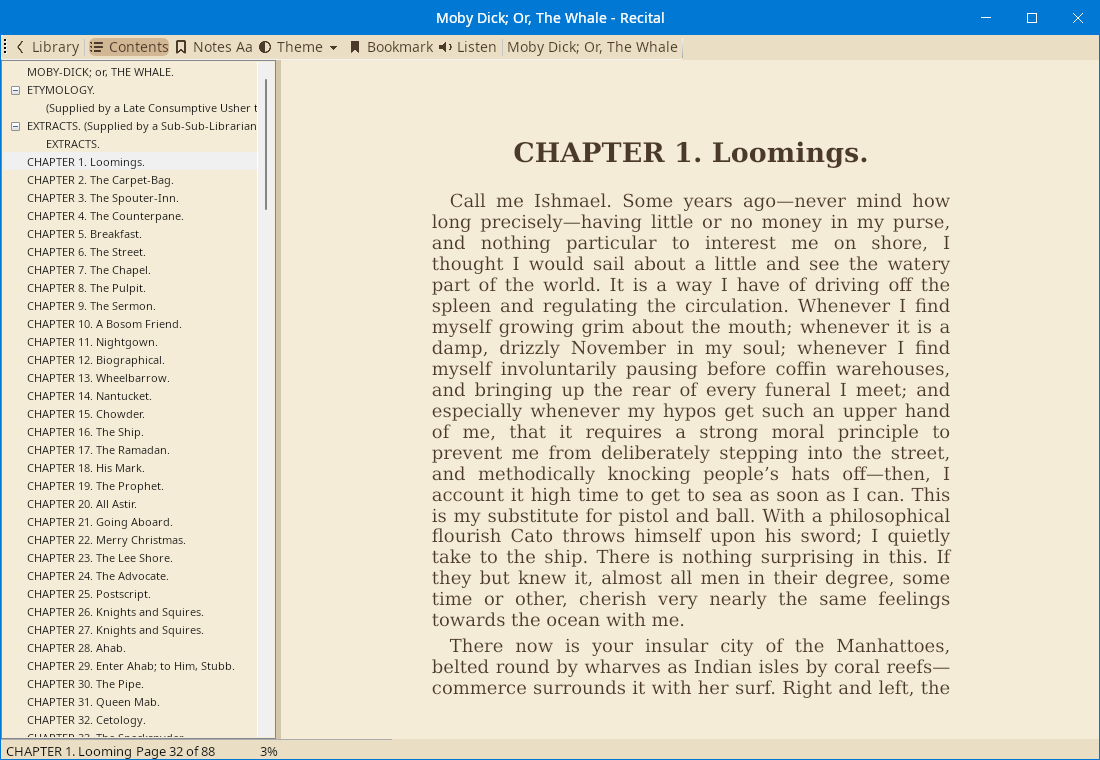
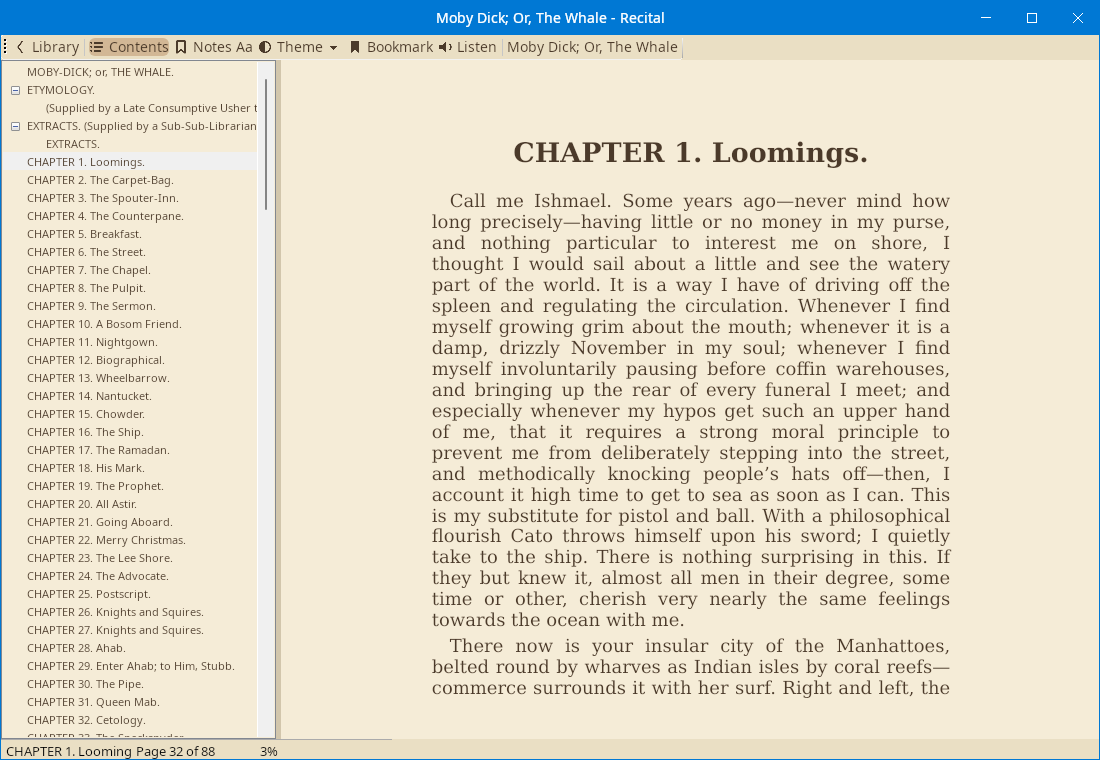
GAP-018: TreeView/ListView item text now uses the theme's own colour
Found running the Linux desktop head by hand: in the Black theme, the Contents panel
showed only its selected chapter, every other row blank. Majorsilence.Forms'
TreeViewRenderer and ListViewRenderer fall back to a fixed, process-wide default text
colour for an unselected node/item with none of its own — never to the control's own
ForeColor, unlike the equivalent background fill. That default is a dark colour meant
for a light background: low but legible contrast against ReaderTheme.Dark's page colour,
zero against ReaderTheme.Black's true black.

ThemePainter now sets every existing node's (recursively) and item's/sub-item's
ForeColor explicitly whenever the theme changes, and ReaderView.FillContents,
AnnotationsPanel.Show and LibraryView.ShowBooks set it from the owning control's own
ForeColor as each node/item is created, so newly added content is right immediately
rather than waiting for the next theme change to revisit it.

Linux UI test baselines and the sepia screenshot redrawn (crisper text colour, no
longer the framework default).

diff --git a/src/Majorsilence.Recital.UI/ThemePainter.cs b/src/Majorsilence.Recital.UI/ThemePainter.cs
@@ -1,3 +1,4 @@
+using System.Drawing;
 using Majorsilence.Forms;
 using Majorsilence.Recital.Core.Reading;
 
@@ -66,11 +67,31 @@ namespace Majorsilence.Recital.UI
                     case TextBoxBase or ComboBox or NumericUpDown or ListView or TreeView or ListBox:
                         control.BackColor = inputBack;
                         control.ForeColor = inputText;
+                        // FRAMEWORK-GAP: GAP-018: an unselected TreeView node or ListView item/sub-item
+                        // with no ForeColor of its own draws in a fixed framework default, not the
+                        // control's ambient ForeColor just set above — invisible against a page colour
+                        // dark enough to collide with that default (Black theme). Set explicitly instead.
+                        if (control is TreeView tree)
+                            SetNodeForeColor (tree.Nodes, inputText);
+                        else if (control is ListView list)
+                            foreach (ListViewItem item in list.Items) {
+                                item.ForeColor = inputText;
+                                foreach (ListViewItem.ListViewSubItem sub in item.SubItems)
+                                    sub.ForeColor = inputText;
+                            }
                         break;
                 }
 
                 foreach (Control child in control.Controls)
                     Walk (child);
+            }
+
+            static void SetNodeForeColor (IEnumerable<TreeNode> nodes, Color color)
+            {
+                foreach (var node in nodes) {
+                    node.ForeColor = color;
+                    SetNodeForeColor (node.Nodes, color);
+                }
             }
         }
     }

diff --git a/src/Majorsilence.Recital.UI/LibraryView.cs b/src/Majorsilence.Recital.UI/LibraryView.cs
@@ -351,10 +351,12 @@ namespace Majorsilence.Recital.UI
             list.BeginUpdate ();
             list.Items.Clear ();
             foreach (var book in shown) {
-                var item = new ListViewItem (book.Title) { Tag = book };
+                var item = new ListViewItem (book.Title) { Tag = book, ForeColor = list.ForeColor };
                 item.SubItems.Add (book.Authors);
                 item.SubItems.Add (book.Progress is null ? "" : book.Percent.ToString ("P0", CultureInfo.CurrentCulture));
                 item.SubItems.Add (book.Meta.AddedAt.ToLocalTime ().ToString ("d", CultureInfo.CurrentCulture));
+                foreach (ListViewItem.ListViewSubItem sub in item.SubItems)
+                    sub.ForeColor = list.ForeColor;
                 list.Items.Add (item);
                 if (book.Id == selected)
                     item.Selected = true;

diff --git a/src/Majorsilence.Recital.UI/ReaderView.cs b/src/Majorsilence.Recital.UI/ReaderView.cs
@@ -935,14 +935,14 @@ namespace Majorsilence.Recital.UI
                     .ToList ();
             }
             foreach (var entry in entries)
-                contents.Nodes.Add (Node (entry));
+                contents.Nodes.Add (Node (entry, contents.ForeColor));
             contents.ExpandAll ();
 
-            static TreeNode Node (TocEntry entry)
+            static TreeNode Node (TocEntry entry, Color foreColor)
             {
-                var node = new TreeNode (entry.Title) { Tag = entry };
+                var node = new TreeNode (entry.Title) { Tag = entry, ForeColor = foreColor };
                 foreach (var child in entry.Children)
-                    node.Nodes.Add (Node (child));
+                    node.Nodes.Add (Node (child, foreColor));
                 return node;
             }
         }

diff --git a/src/Majorsilence.Recital.UI/AnnotationsPanel.cs b/src/Majorsilence.Recital.UI/AnnotationsPanel.cs
@@ -83,12 +83,13 @@ namespace Majorsilence.Recital.UI
             foreach (var annotation in annotations) {
                 var title = chapterOf (annotation) ?? "Untitled section";
                 if (chapterNode is null || title != chapter) {
-                    chapterNode = new TreeNode (title);
+                    chapterNode = new TreeNode (title) { ForeColor = tree.ForeColor };
                     tree.Nodes.Add (chapterNode);
                     chapter = title;
                 }
                 chapterNode.Nodes.Add (new TreeNode (Label (annotation)) {
                     Tag = annotation,
+                    ForeColor = tree.ForeColor,
                     ToolTipText = (annotation.HasNote ? annotation.Note : annotation.Text) ?? "",
                 });
             }

diff --git a/docs/FRAMEWORK_GAPS.md b/docs/FRAMEWORK_GAPS.md
@@ -29,6 +29,7 @@ Phase 5 (sync engine, sync folder menu, folder picker) found no new gaps. Phase 
 | GAP-015 | Tool strip drop-down menus never appear on Android (single-view host) | Avalonia single-view (Android, iOS; browsers above a pixel ratio of 1) | major (Theme, Engine, Voice and speed menus on phones) | Fixed in 26.11.14 by [Forms PR #509](https://github.com/majorsilence/Majorsilence.Forms/pull/509); Recital pins 26.11.14 |
 | GAP-016 | Tool strip captions wrap their last letter at fractional scales ("Bookmar" over "k") | All Avalonia heads at a fractional scale (phones at 2.625) | minor (looks broken on phones) | Fixed in 26.11.14 by [Forms PR #510](https://github.com/majorsilence/Majorsilence.Forms/pull/510); Recital pins 26.11.14 |
 | GAP-017 | A tool strip drop-down reopened on Android can come out only as wide as its button, cutting its items off | Avalonia Android (single view) | minor (labels cut, items still work) | Fixed in 26.11.14 by [Forms PR #511](https://github.com/majorsilence/Majorsilence.Forms/pull/511); Recital pins 26.11.14 |
+| GAP-018 | An unselected `TreeView` node or `ListView` item/sub-item with no colour of its own draws in a fixed framework default, not the control's own `ForeColor` | all | major (Black theme: Contents, Notes and the library's Details view go unreadable) | Open; Recital sets every node's and item's `ForeColor` explicitly, both when the theme changes (`ThemePainter`) and when it creates them (`ReaderView.FillContents`, `AnnotationsPanel.Show`, `LibraryView.ShowBooks`) |
 
 ---
 
@@ -311,6 +312,30 @@ Phase 5 (sync engine, sync folder menu, folder picker) found no new gaps. Phase 
 - **Fix:** [Forms PR #511](https://github.com/majorsilence/Majorsilence.Forms/pull/511) adopts the items
   in `LayoutItems`. `DropDownRefillTests` reproduces the bug headless: 240 wide, then 146 without the fix.
 - **Resolved:** Recital pins 26.11.14.
+
+## GAP-018: `TreeView`/`ListView` item text ignores the control's own `ForeColor`
+
+- **Found:** 2026-11-07, running the Linux desktop head by hand after the toolbar icon pass: Contents
+  showed only its selected row; every other chapter was blank.
+- **Expected:** a node's or item's label, when it has no colour of its own, draws in the `TreeView`'s or
+  `ListView`'s own `ForeColor` — the ambient colour `ThemePainter` sets per `ReaderTheme`, the same way
+  a `TextBox` or `ComboBox` already does.
+- **Actual:** `TreeViewRenderer.RenderItem`'s `foreground_color` and `ListViewRenderer`'s equivalent
+  both check the node's/item's own `ForeColor`, several selection- and hot-tracking-specific colours,
+  and `NodeLayout`'s colour (null for a plain tree) — and only then fall back to the single process-wide
+  `Majorsilence.Forms.Theme.ForegroundColor`, never to `control.ForeColor`. That default is a dark
+  colour meant for a light background: against `ReaderTheme.Dark`'s page colour (`#202124`) the
+  contrast is low but just legible; against `ReaderTheme.Black`'s true black (`#000000`) it is zero.
+- **Severity:** major for Black theme: the reader's Contents and Notes panels, and the library's Details
+  (list) view, all go unreadable outside the one selected row.
+- **Workaround:** `ThemePainter` sets every existing node's (recursively) and every item's and
+  sub-item's `ForeColor` explicitly whenever the theme changes, and `ReaderView.FillContents`,
+  `AnnotationsPanel.Show` and `LibraryView.ShowBooks` set it on each node/item they create, from the
+  owning control's own `ForeColor` — so newly added content is correct before the next theme change
+  revisits it. Marked `FRAMEWORK-GAP: GAP-018` in `ThemePainter`.
+- **Proposed fix:** `TreeViewRenderer`/`ListViewRenderer`'s foreground fallback should read
+  `control.ForeColor` (when not empty) before `Theme.ForegroundColor`, as the equivalent `BackColor`
+  logic already does for the control's own background fill.
 
 ### GAP-014 follow-up (2026-10-20)
 

diff --git a/CHANGELOG.md b/CHANGELOG.md
@@ -2,6 +2,13 @@
 
 ## Unreleased: Phase 10 started
 
+- GAP-018: an unselected `TreeView` node or `ListView` item/sub-item with no colour of its own draws in
+  a fixed Majorsilence.Forms default, not the control's own `ForeColor` — invisible in the Black theme,
+  where the page colour is true black and that default collides with it exactly (found running the
+  Linux desktop head by hand: the Contents panel showed only its selected chapter). `ThemePainter` now
+  sets every node's and item's `ForeColor` explicitly when the theme changes, and `ReaderView.FillContents`,
+  `AnnotationsPanel.Show` and `LibraryView.ShowBooks` set it on each node/item they create.
+
 - Toolbar and chrome polish: every toolbar button (Library, Contents, Notes, Bookmark, Listen, Theme,
   Import, Sort, grid/list, and the reading-aloud bar's back/play-pause/forward/stop/close) now carries a
   small monochrome icon, drawn in code at a 24x24 view box rather than shipped as image assets
